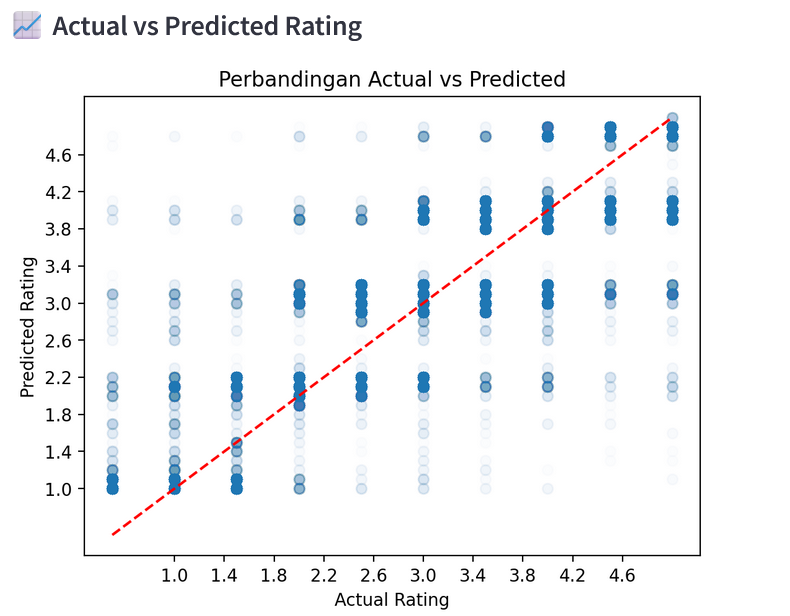
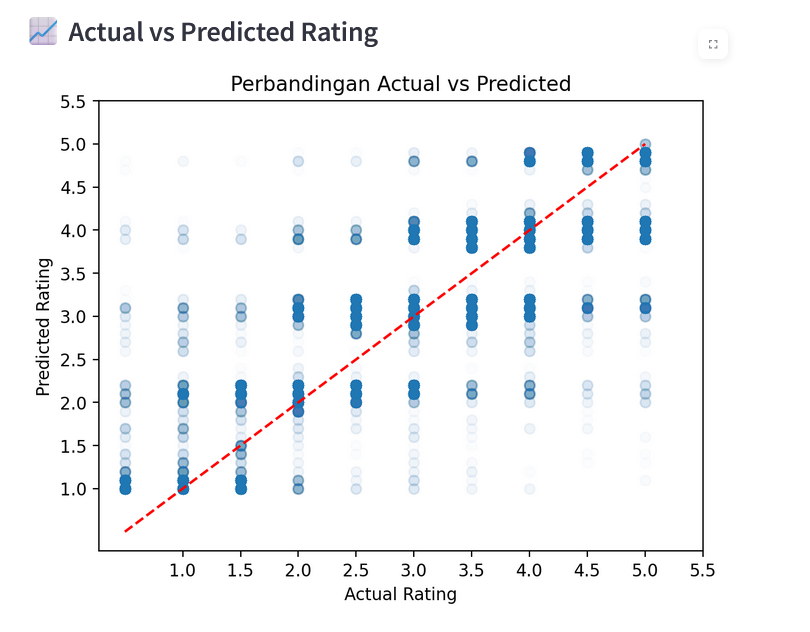
finsing test XG

diff --git a/program_xg.py b/program_xg.py
@@ -50,10 +50,10 @@ y = df_filtered['actual_rating']
 # -------------------------------------
 # 2. Tuning Hyperparameter Pada XGBoost 
 # -------------------------------------
-n_estimators = 600
-learning_rate = 0.5
-max_depth = 9
-min_child_weight = 5
+n_estimators = 200
+learning_rate = 0.05
+max_depth = 5
+min_child_weight = 3
 subsample = 0.8
 colsample_bytree = 0.8
 gamma = 0.1
